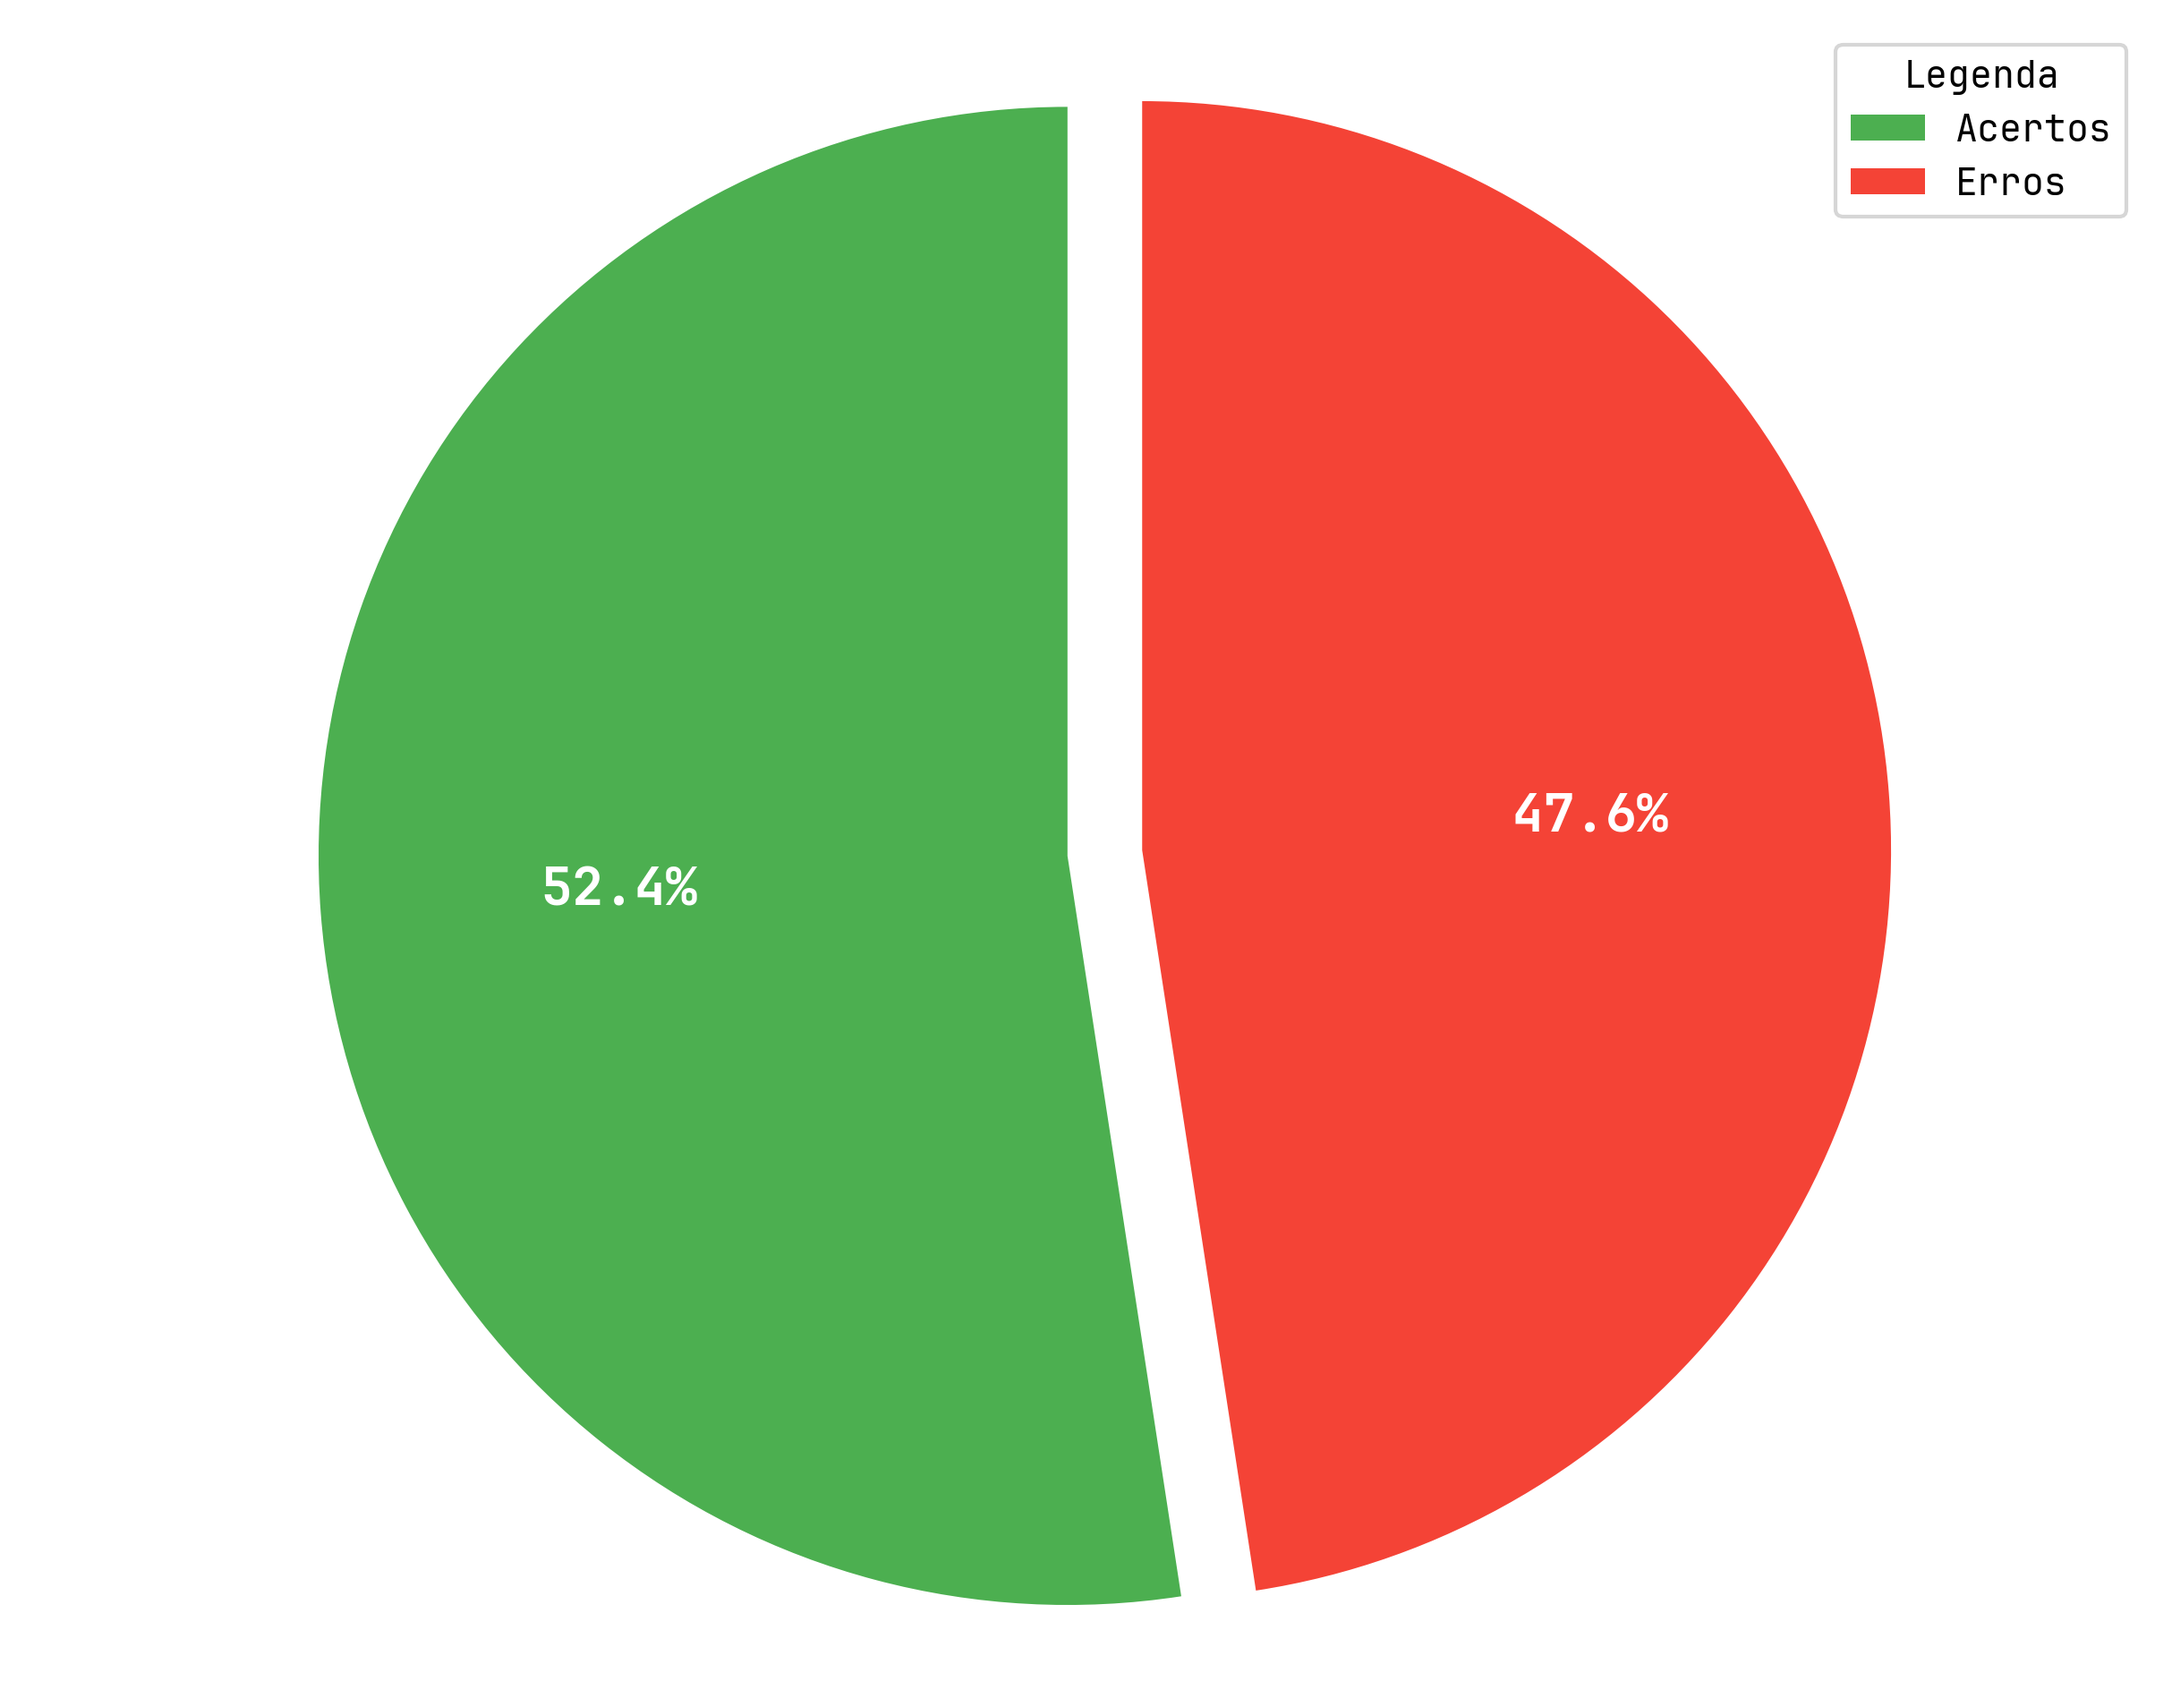
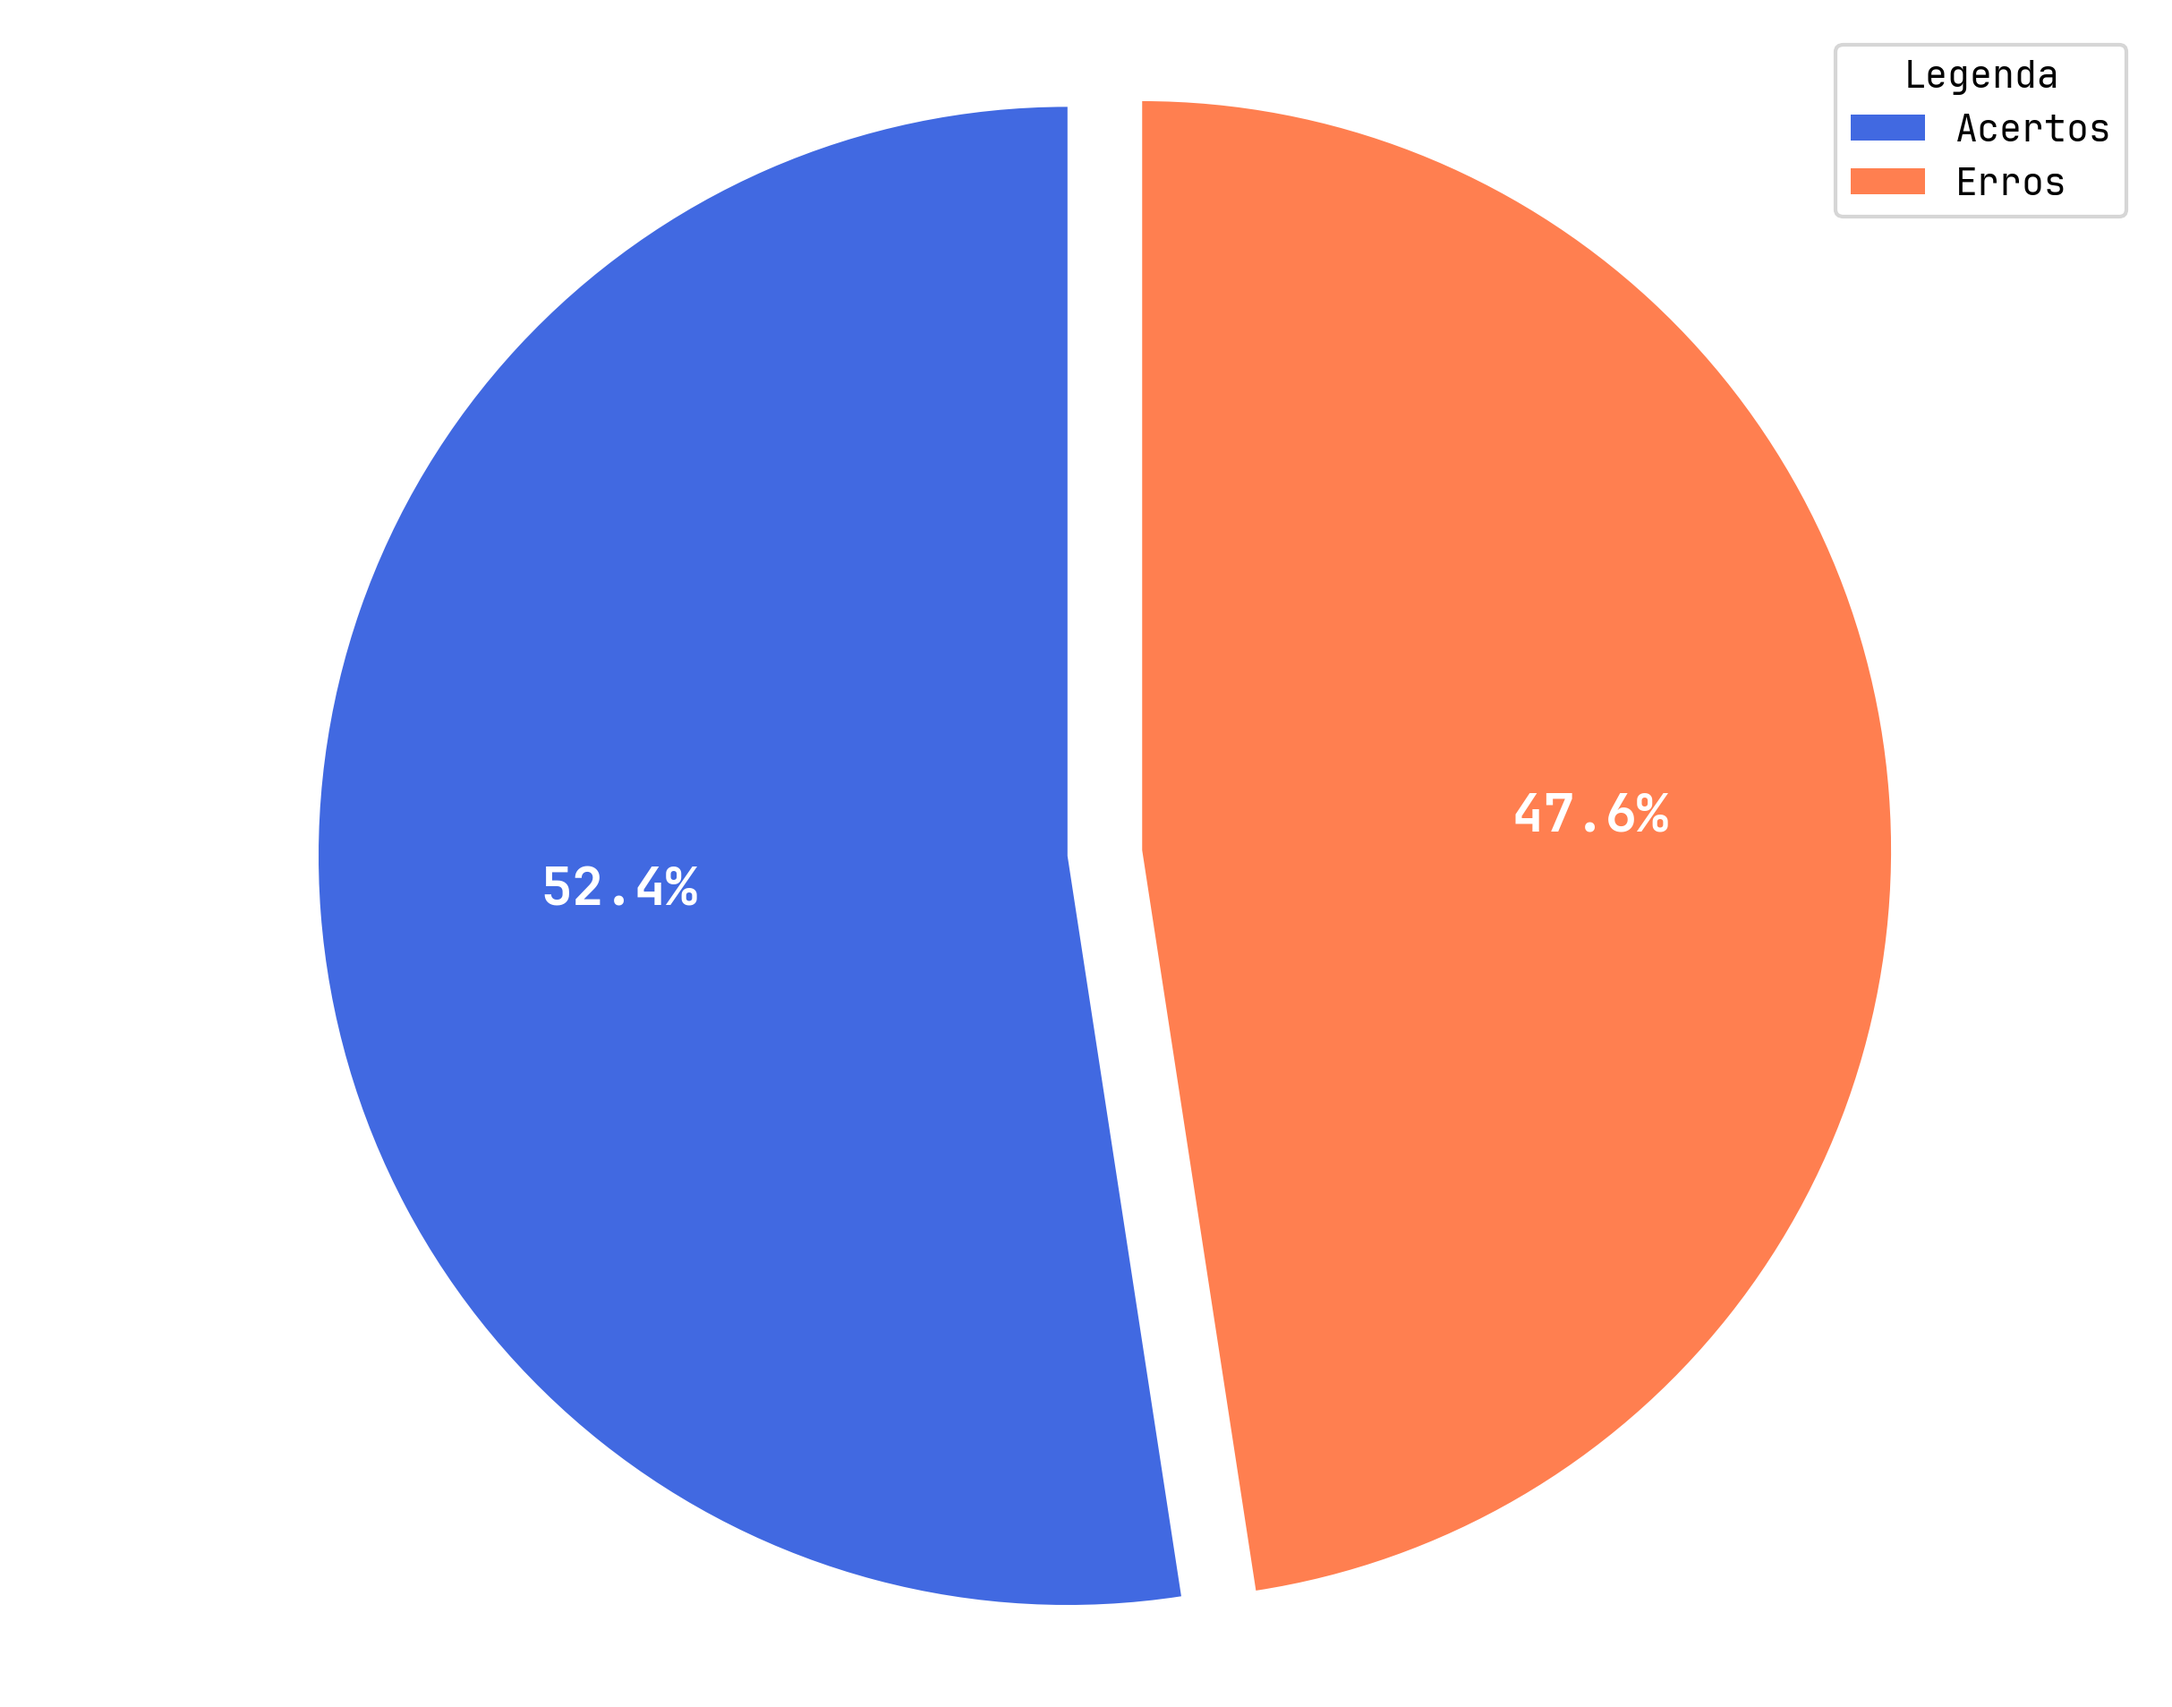
chore: bump slides

diff --git a/docs/results/identification_match_percentage.py b/docs/results/identification_match_percentage.py
@@ -25,7 +25,7 @@ print(f"Taxa de Erro: {error_rate:.2%}")
 
 labels = ['Acertos', 'Erros']
 sizes = [accuracy_rate * 100, error_rate * 100]
-colors = ['#4CAF50', '#F44336']
+colors = ['#4169E1', '#FF7F50']
 explode = (0.1, 0)
 
 plt.figure(figsize=(10, 8))

diff --git a/docs/presentation/slides.md b/docs/presentation/slides.md
@@ -50,7 +50,7 @@ fonts:
 <div class="grid grid-cols-2 gap-4 min-h-full">
 <div class="flex flex-col justify-start items-center">
 <img src="./assets/google.png" class="h-100 mx-auto rounded-lg" />
-<Author class="mt-2">Fonte: Próprio autor.</Author>
+<Author class="mt-2">Fonte: Próprio autor e <em>Alphabet</em> via <em>Google</em>.</Author>
 </div>
 <div class="flex flex-col justify-start items-center">
 <img src="./assets/flyer.jpg" class="aspect-square h-100 rounded-lg" />
@@ -78,7 +78,9 @@ fonts:
 
 ## Objetivo Geral
 
-- Desenvolver um sistema para extração, gerenciamento e visualização de informações sobre batalhas de rima no <em>Instagram</em>.
+<!-- - Desenvolver um sistema para extração, gerenciamento e visualização de informações sobre batalhas de rima no <em>Instagram</em>. -->
+- Desenvolver um sistema para extração, gerenciamento e visualização de informações sobre batalhas de rima a partir de imagens de panfletos digitais no <em>Instagram</em>.
+
 
 ## Objetivos Específicos
 
@@ -101,9 +103,10 @@ fonts:
 ## Tecnologias Utilizadas
 
 - <em>Node.js</em> e <em>TypeScript</em>.
-- <em>Vue.js</em> e <em>Nuxt.js</em>.
 - <em>Crawlee</em> e <em>Playwright</em>.
 - <em>OpenRouter</em> e <em>Llama 3.2 90B Vision</em>.
+- <em>Vue.js</em> e <em>Nuxt.js</em>.
+- <em>MapLibre</em>, <em>Maptiler</em> e <em>OpenStreetMap</em>.
 
 ---
 
@@ -125,7 +128,7 @@ fonts:
 
 ```mermaid
 flowchart LR
-  id1[Abrir perfil da Batalha no <em>Instagram</em>] --> id2[Aguardar carregamento da página] --> id3[Clicar em cada âncora de postagem encontrada que NÃO esteja salva] --> id4[Extrair os seus dados e salvá-los no banco de dados]
+  id1[Injetar <em>fingerprints</em>, <em>headers</em>, <em>cookies</em> e bloqueador de requisições] --> id2[Abrir perfil da Batalha no <em>Instagram</em>] --> id3[Aguardar carregamento da página] --> id4[Clicar em cada âncora de postagem encontrada que NÃO esteja salva] --> id5[Extrair os dados e salvá-los no banco de dados]
 ```
 <v-click>
 ```ts {|2,3,4|8|9|11|12|13|14|15}
@@ -155,7 +158,7 @@ for await (const element of postElements) { // Para todas as âncoras de postage
 
 ```mermaid
 flowchart LR
-  id1[Recuperar três postagens mais recentes do perfil da batalha no <em>Instagram</em>] --> id2[Enviar cada imagem junto a um <em>prompt</em> para o <em>Llama 3.2 90B Vision</em> por meio do <em>OpenRouter</em>] --> id3[Salvar identificações de postagens no banco de dados]
+  id1[Recuperar do banco de dados as três postagens mais recentes do perfil da batalha no <em>Instagram</em>] --> id2[Enviar cada imagem junto a um <em>prompt</em> para o <em>Llama 3.2 90B Vision</em> por meio do <em>OpenRouter</em>] --> id3[Salvar identificações de postagens no banco de dados]
 ```
 <v-click>
 <div class="grid grid-cols-2 gap-4">
@@ -198,7 +201,7 @@ You are a flyer image identification tool.
 
 ```mermaid
 flowchart LR
-  id1[Recuperar no MÁXIMO três postagens IDENTIFICADAS como <em>flyer</em> mais recentes do perfil da batalha no <em>Instagram</em>] --> id2[Enviar cada imagem junto a um <em>prompt</em> para o <em>Llama 3.2 90B Vision</em> através do <em>OpenRouter</em>] --> id3[Salvar análises de postagens no banco de dados]
+  id1[Recuperar do banco de dados no MÁXIMO três postagens IDENTIFICADAS como <em>flyer</em> mais recentes do perfil da batalha no <em>Instagram</em>] --> id2[Enviar cada imagem junto a um <em>prompt</em> para o <em>Llama 3.2 90B Vision</em> por meio do <em>OpenRouter</em>] --> id3[Salvar análises de postagens no banco de dados]
 ```
 
 ---
@@ -267,16 +270,16 @@ null;null
 
 ## Análise Qualitativa - Geral
 
-- Cadastro de 5 batalhas de rima
-- Extração de um total de 103 postagens através do próprio sistema
-- Avaliação manual das postagens
+- Cadastro de 5 batalhas de rima.
+- Extração de um total de 103 postagens através do próprio sistema.
+- Avaliação manual das postagens.
 
 ---
 
 # Resultados
 
 ## Análise Qualitativa - Identificação
-- Identificações manuais comparadas com as identificações feitas pelo <em>Multimodal Large Language Model</em> (MLLM)
+- Identificações manuais comparadas com as identificações feitas pelo <em>Multimodal Large Language Model</em> (MLLM).
 - Critério:
   - A resposta do modelo identifica corretamente a postagem como <em>flyer</em>.
   
@@ -287,7 +290,9 @@ null;null
 
 ## Análise Qualitativa - Extração
 
-- Análises manuais comparadas com as extrações feitas pelo <em>MLLM</em>
+- Foram utilizadas somente as postagens identificadas como <em>flyer</em> na etapa anterior que continham data, hora e localização.
+- Análises manuais comparadas com as extrações feitas pelo <em>MLLM</em>.
+
 - Critérios:
   - A resposta do modelo está no formato <em>Comma Separated Values</em> (CSV) correto (<em>YYYY-MM-DDTHH:mm;location</em>), com
   apenas um separador “ponto-e-vírgula”;
@@ -301,9 +306,11 @@ null;null
 
 ## Análise Qualitativa
 
+De 103 postagens, 54 postagens foram identificadas corretamente como <em>flyer</em>. Delas, foram mantidas 45 postagens que continham data hora e localização e 33 dessas postagens foram analisadas corretamente.
+
 <div class="grid grid-cols-2 gap-8">
   <div>
-    <h3>Identificação de <em>Flyers</em></h3>
+    <h4 class="text-center -mt-1.5">Identificação de <em>Flyers</em></h4>
 ```mermaid 
 %%{
   init: {
@@ -324,12 +331,12 @@ pie
 "Incorretos" : 47.6
 
 ```
-<Author>Fonte: Próprio autor.</Author>
+<Author class="-mt-8">Fonte: Próprio autor.</Author>
 </div>
 
 
   <div>
-    <h3>Extração de Informações</h3>
+    <h4 class="text-center -mt-1.5">Extração de Informações</h4>
 ```mermaid
 %%{
   init: {
@@ -350,8 +357,8 @@ pie
 "Corretos" : 73.3
 "Incorretos" : 26.7
 ```
-<Author>Fonte: Próprio autor.</Author>
-  </div>
+<Author class="-mt-8">Fonte: Próprio autor.</Author>
+</div>
 </div>
 
 
@@ -368,15 +375,22 @@ url: http://localhost:3000
 - Integração bem-sucedida de diferentes tecnologias.
 - Sistema apresenta 52,4% de taxa de acerto na identificação de <em>flyers</em>, indicando possível aleatoriedade.
 - Sistema apresenta 73,3% de taxa de acerto na extração de datas e locais de <em>flyers</em>.
-- Oportunidades de melhorias e trabalhos futuros.
-
 ---
 
 # Trabalhos futuros
 
+- Otimização de parâmetros do <em>MLLM</em>.
+- <em>Prompts</em> mais específicos.
+- Integração de outros <em>MLLMs</em>.
+- Teste de soluções alternativas como <em>OCR</em>.
+- Suporte para múltiplas mídias sociais.
+- Suporte para outros tipos de eventos.
+- Sistema de notificações de eventos.
+- Implementação de um sistema colaborativo para validação de informação.
+
 ---
 
-# Referências
+# Principais Referências
 
 ---
 
